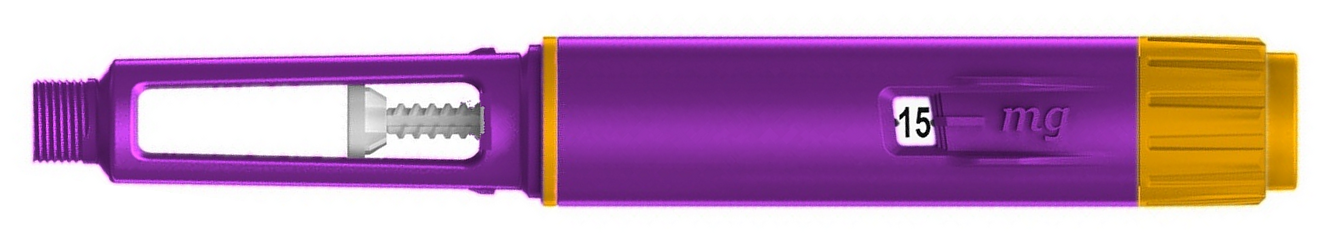
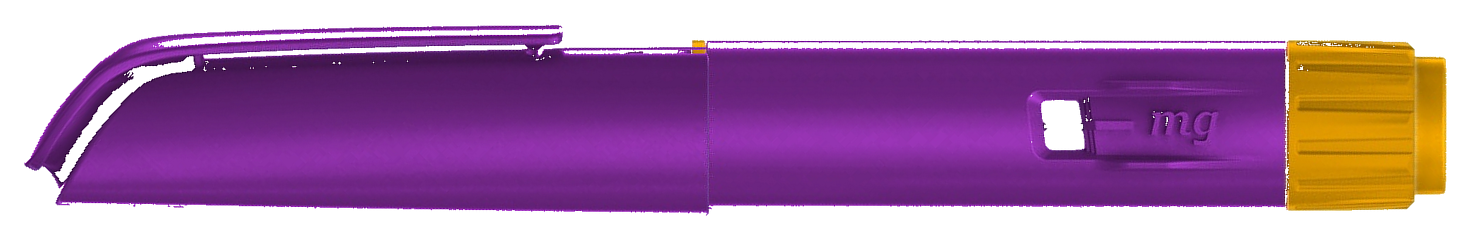
NEOTYS verify page: hero image = Multtipen pen with cap on (assembled from frozen render)

diff --git a/customer/neotys-verificar.html b/customer/neotys-verificar.html
@@ -54,11 +54,11 @@
   .status h1 { font-size: 21px; font-weight: 900; color: #1e8e3e; letter-spacing: .5px; }
   .status p { font-size: 13px; color: #6b6472; margin-top: 4px; }
   .product {
-    display: flex; align-items: center; gap: 14px;
+    display: flex; flex-direction: column; align-items: stretch; gap: 8px;
     margin: 16px 20px 0; padding: 12px;
     background: #faf6fb; border: 1px solid #e6dcee; border-radius: 12px;
   }
-  .product img { width: 132px; object-fit: contain; }
+  .product img { width: 100%; height: auto; display: block; }
   .product .name { font-size: 18px; font-weight: 900; color: #4a1a5c; }
   .product .form { font-size: 13px; color: #8a6b22; font-weight: 500; margin-top: 2px; }
   .product .pack { font-size: 11px; color: #6b6472; margin-top: 4px; line-height: 1.45; }
@@ -105,11 +105,11 @@
     </div>
 
     <div class="product">
-      <img src="neotys-pen.png" alt="Multtipen NEOTYS" />
+      <img src="neotys-pen.png" alt="Multtipen NEOTYS con capuchón puesto" />
       <div>
         <div class="name">NEOTYS</div>
         <div class="form">Tirzepatida 60 mg / 3 mL</div>
-        <div class="pack">Multtipen · pluma multidosis<br />Un solo paciente · uso único</div>
+        <div class="pack">Multtipen · pluma multidosis (capuchón puesto)<br />Un solo paciente · uso único</div>
       </div>
     </div>
 
